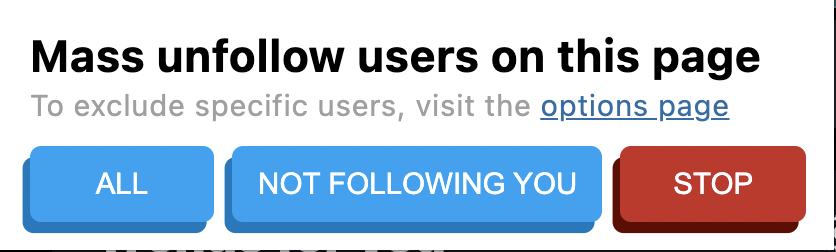
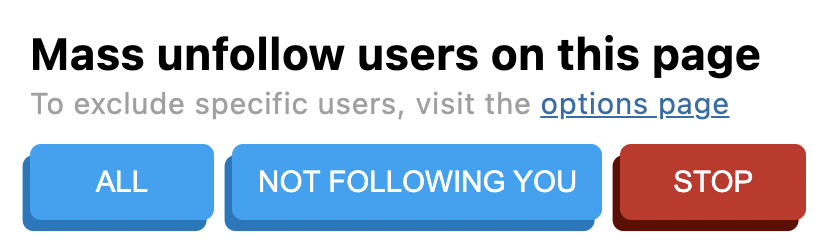
update extension image

diff --git a/readme.md b/readme.md
@@ -1,5 +1,5 @@
 # Twitter Mass Unfollow
 
-<img src="/images/extension.png" alt="Twitter Mass Unfollow extension UI">
+<img src="/images/extension.png" alt="Twitter Mass Unfollow extension UI" width="65%">
 
 > A simple (configurable) way to mass unfollow your Twitter followings
